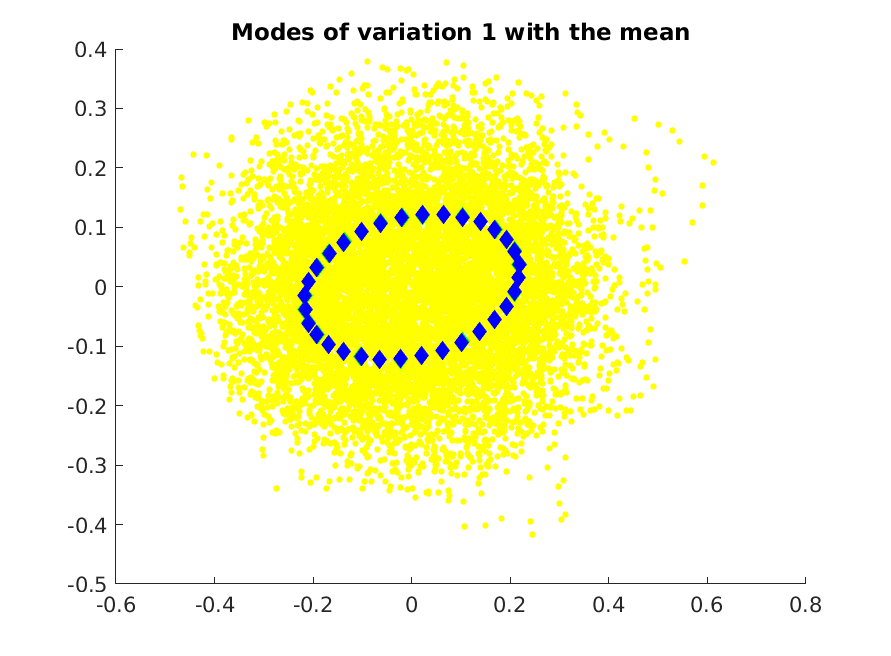
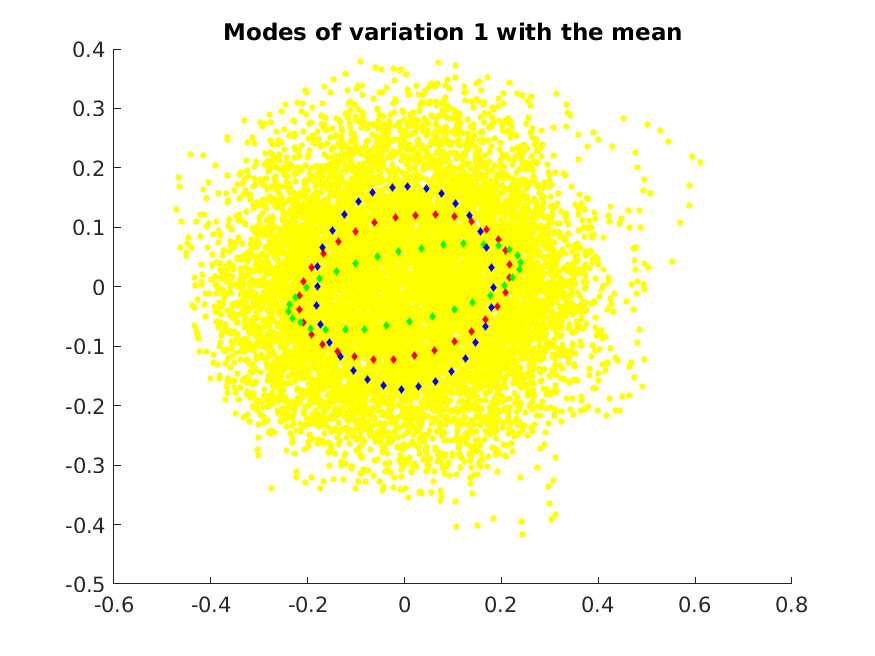
Changed the covariance step bug

diff --git a/A1/assignmentShapeAnalysis/code/ellipses2D/myMainScript1.m b/A1/assignmentShapeAnalysis/code/ellipses2D/myMainScript1.m
@@ -54,7 +54,8 @@ plot_data_points(point_set_data_norm, num_point_sets, has_mean, mean_new, 'Mean_
 	
 % Covariance Analysis
 
-point_set_data_norm_flat = reshape(point_set_data_norm, [dim*num_points, num_point_sets]);
+point_set_data_norm_flat = reshape(point_set_data_norm - repmat(mean_new, [1,1,num_point_sets]), [dim*num_points, num_point_sets]);
+% point_set_data_norm_flat = point_set_data_norm_flat - );
 cov_mat = double(point_set_data_norm_flat * point_set_data_norm_flat') ./ double(num_point_sets);
 % size(cov_mat)
 
@@ -83,12 +84,12 @@ title("Modes of variation 1 with the mean");
 
 hold on;
 for i = 1:num_point_sets
-	scatter(point_set_data(1,:, i), point_set_data(2, :, i), 10, [1,1,0], 'filled');
+	scatter(point_set_data_norm(1,:, i), point_set_data_norm(2, :, i), 10, [1,1,0], 'filled');
 end	
 
-scatter(mean_new(1,:), mean_new(2,:), 50, [1, 0, 0], 'filled', 'd');
-scatter(mode_of_var1_inc(1,:), mode_of_var1_inc(2,:), 50, [0, 1, 0], 'filled', 'd');
-scatter(mode_of_var1_dec(1,:), mode_of_var1_dec(2,:), 50, [0, 0, 1], 'filled', 'd');
+scatter(mean_new(1,:), mean_new(2,:), 10, [1, 0, 0], 'filled', 'd');
+scatter(mode_of_var1_inc(1,:), mode_of_var1_inc(2,:), 10, [0, 1, 0], 'filled', 'd');
+scatter(mode_of_var1_dec(1,:), mode_of_var1_dec(2,:), 10, [0, 0, 1], 'filled', 'd');
 
 hold off;
 saveas(f, "Modes_of_variation1.png");
@@ -110,17 +111,16 @@ hold on;
 title("Modes of variation 2 with the mean");
 
 for i = 1:num_point_sets
-	scatter(point_set_data(1,:, i), point_set_data(2, :, i), 10, [1,1,0], 'filled');
+	scatter(point_set_data_norm(1,:, i), point_set_data_norm(2, :, i), 10, [1,1,0], 'filled');
 end	
 
-scatter(mean_new(1,:), mean_new(2,:), 50, [1, 0, 0], 'filled', 'd');
-scatter(mode_of_var2_inc(1,:), mode_of_var2_inc(2,:), 50, [0, 1, 0], 'filled', 'd');
-scatter(mode_of_var2_dec(1,:), mode_of_var2_dec(2,:), 50, [0, 0, 1], 'filled', 'd');
+scatter(mean_new(1,:), mean_new(2,:), 10, [1, 0, 0], 'filled', 'd');
+scatter(mode_of_var2_inc(1,:), mode_of_var2_inc(2,:), 10, [0, 1, 0], 'filled', 'd');
+scatter(mode_of_var2_dec(1,:), mode_of_var2_dec(2,:), 10, [0, 0, 1], 'filled', 'd');
 
 hold off;
 
 saveas(f, "Modes_of_variation2.png");
 close(f);
-
 
 toc;
